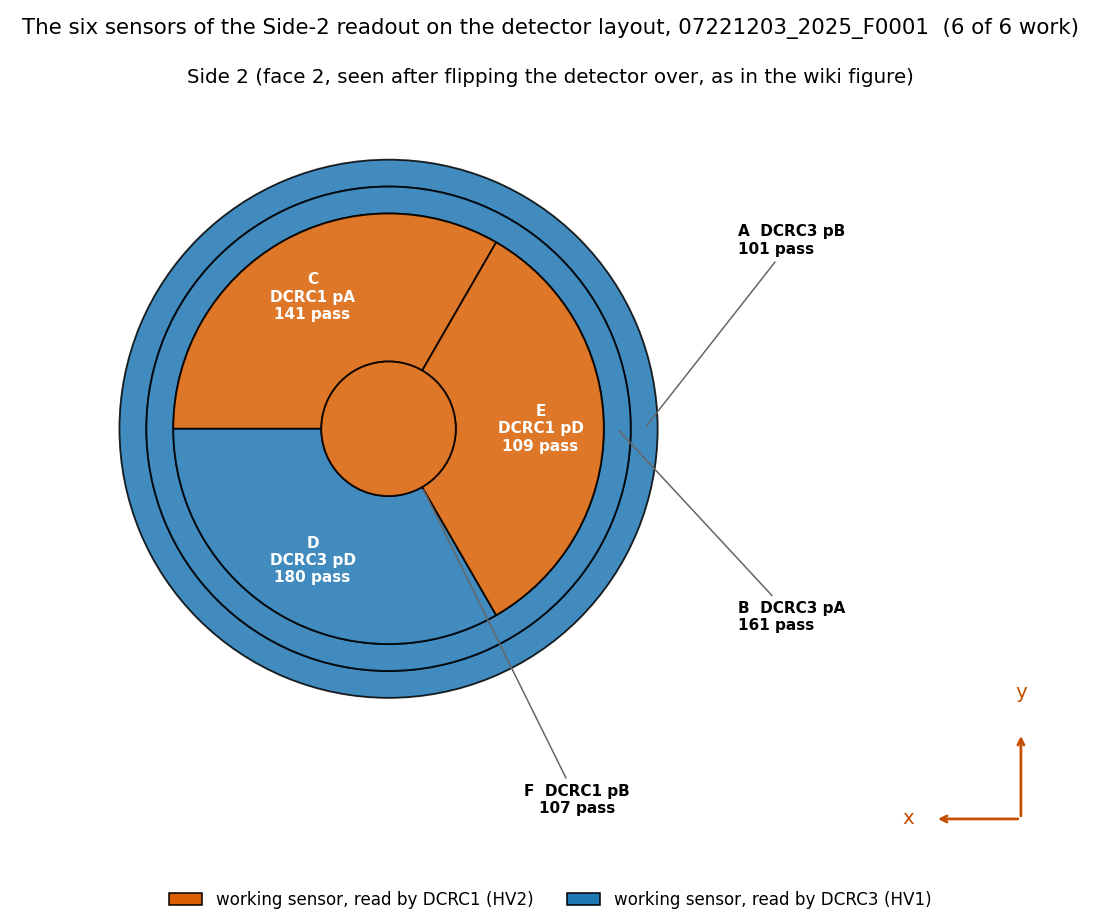
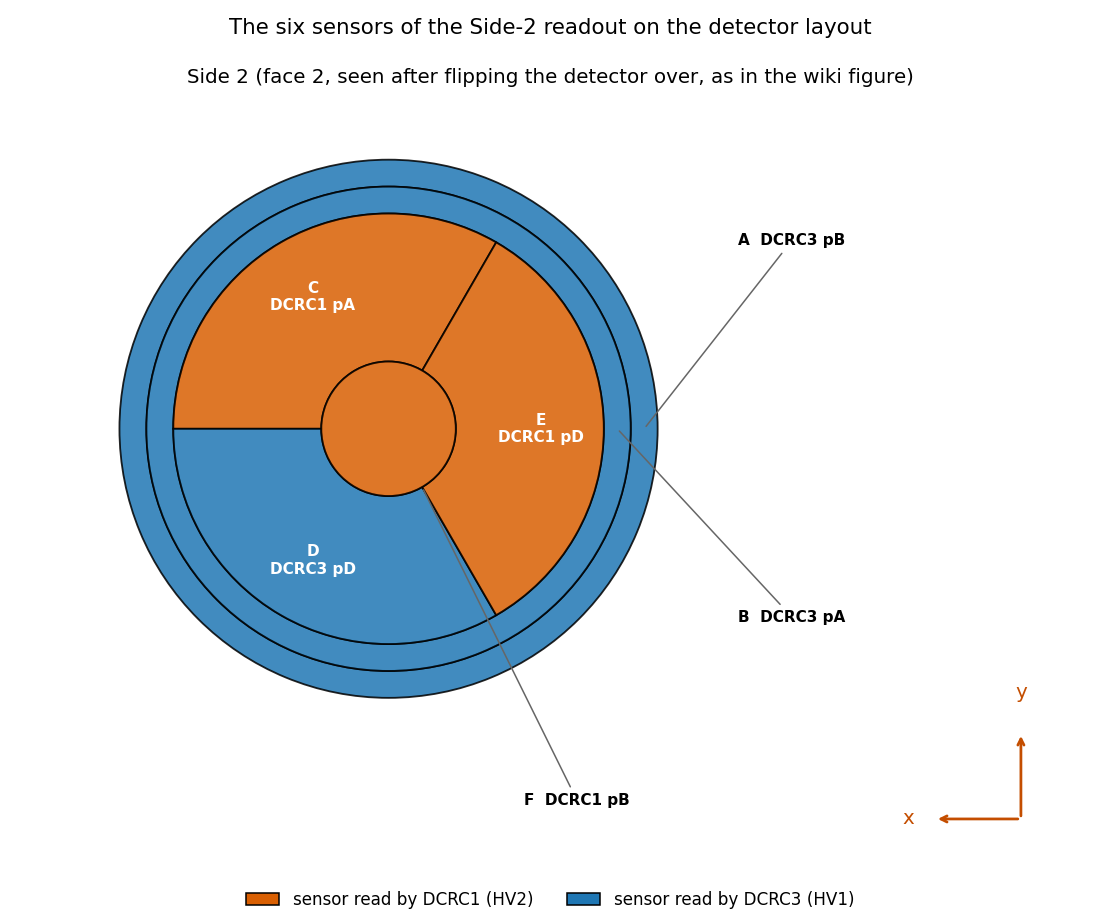
Publish student notes (generated by tools/build_notes.py)

diff --git a/docs/notes/student-psd-clean-randoms-07221203-2025.html b/docs/notes/student-psd-clean-randoms-07221203-2025.html
@@ -33,6 +33,8 @@ Densities</a></li>
 the strictest cut (every working channel)</a></li>
   <li><a href="#appendix-b-the-cut-on-pcs2-and-the-cut-on-pas2">Appendix B: the
 cut on PCS2 and the cut on PAS2</a></li>
+  <li><a href="#appendix-c-both-faces-of-the-detector">Appendix C: both faces of
+the detector</a></li>
 </ol>
 </nav>
 
@@ -75,7 +77,7 @@ counts (the cuts, the 101 and 141 events (the strictest cut’s 31 is now
 other than 4 and 6 (they are identical pixel for pixel), the sample
 numbers quoted for the events). <!-- numbers-ok --></li>
 <li>The Code repository section is pinned to the commit of the latest
-re-run (<code>21b4669</code> for the notebooks, figures and file,
+re-run (<code>18c4bab</code> for the notebooks, figures and file,
 <code>ade25df</code> for the library). <!-- numbers-ok --></li>
 </ul>
 </div>
@@ -100,11 +102,12 @@ What changed in this note: <!-- numbers-ok --></p>
 1) are as before. Everything keyed by (detector, channel), the cuts, the
 event numbers and counts, is unchanged. <!-- numbers-ok --></li>
 <li><strong>No Side 1.</strong> Figure 1 shows one face with six regions
-instead of two faces with seven working channels; the colours of the
-other figures are by board (blue DCRC3, orange DCRC1), and the by-side
-figures (4, 6) are by board; Figures 3 and 8, and the text about the cut
-“on one channel of each side”, are now about one channel on each board.
-<!-- numbers-ok --></li>
+instead of two faces with seven working channels (it is now a generic
+layout, the counts of randoms are in the table above it; Appendix C,
+new, draws both faces); the colours of the other figures are by board
+(blue DCRC3, orange DCRC1), and the by-side figures (4, 6) are by board;
+Figures 3 and 8, and the text about the cut “on one channel of each
+side”, are now about one channel on each board. <!-- numbers-ok --></li>
 <li><strong>The cut we use is made on PAS2</strong> (the old PBS1), a
 channel of DCRC3. Its 101 events are the same. <!-- numbers-ok --></li>
 <li><strong>PBS2 is gone as a phonon channel.</strong> The caveat about
@@ -131,7 +134,7 @@ board order and the Side-2 readout of the December series are inferred
 </div>
 <h2 id="code-repository">Code repository</h2>
 <p>All code is pinned to two commits: buddy’s notebooks, the saved HDF5
-file and the figures to <code>21b4669</code>, the commit of the re-run
+file and the figures to <code>18c4bab</code>, the commit of the re-run
 with the corrected sample period (0.8 µs) and the channel map of the
 Side-2 readout, and the library in <code>python/</code> to
 <code>ade25df</code>. Each link shows the file as it was when the
@@ -142,25 +145,28 @@ the file may have moved since (see
 today.</p>
 <ul>
 <li><a
-href="https://github.com/villano-lab/NSDF-Data/blob/21b4669/data_analysis/R76/student/buddy/psd-clean-randoms-buddy.ipynb"><code>psd-clean-randoms-buddy.ipynb</code></a>:
+href="https://github.com/villano-lab/NSDF-Data/blob/18c4bab/data_analysis/R76/student/buddy/psd-clean-randoms-buddy.ipynb"><code>psd-clean-randoms-buddy.ipynb</code></a>:
 the spectra of every channel from the <code>clean_randoms</code> cut,
 and the saved HDF5 file <a
-href="https://github.com/villano-lab/NSDF-Data/blob/21b4669/data_analysis/R76/student/buddy/psd-clean-randoms-07221203_2025_F0001.h5"><code>psd-clean-randoms-07221203_2025_F0001.h5</code></a>
+href="https://github.com/villano-lab/NSDF-Data/blob/18c4bab/data_analysis/R76/student/buddy/psd-clean-randoms-07221203_2025_F0001.h5"><code>psd-clean-randoms-07221203_2025_F0001.h5</code></a>
 (Noise Power Spectral Densities).</li>
 <li><a
-href="https://github.com/villano-lab/NSDF-Data/blob/21b4669/data_analysis/R76/student/buddy/chan0-cut-on-all-channels-buddy.ipynb"><code>chan0-cut-on-all-channels-buddy.ipynb</code></a>:
+href="https://github.com/villano-lab/NSDF-Data/blob/18c4bab/data_analysis/R76/student/buddy/chan0-cut-on-all-channels-buddy.ipynb"><code>chan0-cut-on-all-channels-buddy.ipynb</code></a>:
 how good the PCS2 cut (the channel names are explained under Data and
 setup) is on the other channels, and the definition of the cut we use
 (<code>clean_randoms</code>) (Selection of Randoms in All Channels, Data
 and setup for the timing of the randoms, Appendices A and B).</li>
 <li><a
-href="https://github.com/villano-lab/NSDF-Data/blob/21b4669/data_analysis/R76/student/buddy/noise-psd-randoms-buddy.ipynb"><code>noise-psd-randoms-buddy.ipynb</code></a>:
+href="https://github.com/villano-lab/NSDF-Data/blob/18c4bab/data_analysis/R76/student/buddy/detector-faces-buddy.ipynb"><code>detector-faces-buddy.ipynb</code></a>:
+the drawing of both faces of the detector (Appendix C).</li>
+<li><a
+href="https://github.com/villano-lab/NSDF-Data/blob/18c4bab/data_analysis/R76/student/buddy/noise-psd-randoms-buddy.ipynb"><code>noise-psd-randoms-buddy.ipynb</code></a>:
 the channel map and the noise spectra of the 34 events of the strictest
 cut (Data and setup, Appendix A).</li>
 <li><a
-href="https://github.com/villano-lab/NSDF-Data/blob/21b4669/data_analysis/R76/student/buddy/extract_odb_facts.py"><code>extract_odb_facts.py</code></a>
+href="https://github.com/villano-lab/NSDF-Data/blob/18c4bab/data_analysis/R76/student/buddy/extract_odb_facts.py"><code>extract_odb_facts.py</code></a>
 and <a
-href="https://github.com/villano-lab/NSDF-Data/blob/21b4669/data_analysis/R76/student/buddy/odb-facts-07220916_2200.json"><code>odb-facts-07220916_2200.json</code></a>:
+href="https://github.com/villano-lab/NSDF-Data/blob/18c4bab/data_analysis/R76/student/buddy/odb-facts-07220916_2200.json"><code>odb-facts-07220916_2200.json</code></a>:
 the run configuration of series <code>07220916_2200</code> (board order,
 QET biases, random rates) read from its raw file, which is not in the
 repository, and the numbers it gave; section 12 of
@@ -182,7 +188,7 @@ and the PSD.</li>
 49 seconds); random triggers are snapshots of our detector traces taken
 at any time (rather than when a pulse occurs) to sample the noise
 environment. The line in the third code block of the <a
-href="https://github.com/villano-lab/NSDF-Data/blob/21b4669/data_analysis/R76/student/buddy/noise-psd-randoms-buddy.ipynb"><code>noise-psd-randoms-buddy.ipynb</code></a>
+href="https://github.com/villano-lab/NSDF-Data/blob/18c4bab/data_analysis/R76/student/buddy/noise-psd-randoms-buddy.ipynb"><code>noise-psd-randoms-buddy.ipynb</code></a>
 notebook shows the randoms cut defined as
 <code>quiet_noise = pc.excursion_band(pulses, config_500) &amp; (np.log10(bstd_500) &lt; 0.5)</code>
 in addition to selecting the trigger specification for random events.
@@ -266,7 +272,7 @@ input.</li>
 <p>The mapping is kept in <a
 href="https://github.com/villano-lab/NSDF-Data/blob/ade25df/python/pulse_channels.py"><code>python/pulse_channels.py</code></a>,
 marked as under development, and section 7 of <em>that</em> notebook, <a
-href="https://github.com/villano-lab/NSDF-Data/blob/21b4669/data_analysis/R76/student/buddy/noise-psd-randoms-buddy.ipynb"><code>noise-psd-randoms-buddy.ipynb</code></a>,
+href="https://github.com/villano-lab/NSDF-Data/blob/18c4bab/data_analysis/R76/student/buddy/noise-psd-randoms-buddy.ipynb"><code>noise-psd-randoms-buddy.ipynb</code></a>,
 gives the evidence.</p>
 <p><strong>Channel names.</strong> In the text a channel is written as
 P, the letter of its sensor, and its side: PCS2 is the phonon channel C
@@ -276,10 +282,11 @@ the dump numbers it as detector 0, channel 0. The six sensors, all on
 Side 2:</p>
 <table>
 <colgroup>
-<col style="width: 25%" />
-<col style="width: 25%" />
-<col style="width: 25%" />
-<col style="width: 25%" />
+<col style="width: 20%" />
+<col style="width: 20%" />
+<col style="width: 20%" />
+<col style="width: 20%" />
+<col style="width: 20%" />
 </colgroup>
 <thead>
 <tr class="header">
@@ -287,6 +294,8 @@ Side 2:</p>
 <th style="text-align: center;">Library and figures</th>
 <th style="text-align: center;">Dump (detector / channel)</th>
 <th style="text-align: center;">Board and input</th>
+<th style="text-align: center;">Randoms that pass its own quiet-noise
+cut</th>
 </tr>
 </thead>
 <tbody>
@@ -295,36 +304,42 @@ Side 2:</p>
 <td style="text-align: center;"><code>Side2pC</code></td>
 <td style="text-align: center;">0 / 0</td>
 <td style="text-align: center;">DCRC1 pA</td>
+<td style="text-align: center;">141</td>
 </tr>
 <tr class="even">
 <td style="text-align: center;">PFS2</td>
 <td style="text-align: center;"><code>Side2pF</code></td>
 <td style="text-align: center;">0 / 1</td>
 <td style="text-align: center;">DCRC1 pB</td>
+<td style="text-align: center;">107</td>
 </tr>
 <tr class="odd">
 <td style="text-align: center;">PES2</td>
 <td style="text-align: center;"><code>Side2pE</code></td>
 <td style="text-align: center;">0 / 3</td>
 <td style="text-align: center;">DCRC1 pD</td>
+<td style="text-align: center;">109</td>
 </tr>
 <tr class="even">
 <td style="text-align: center;">PBS2</td>
 <td style="text-align: center;"><code>Side2pB</code></td>
 <td style="text-align: center;">1 / 0</td>
 <td style="text-align: center;">DCRC3 pA</td>
+<td style="text-align: center;">161</td>
 </tr>
 <tr class="odd">
 <td style="text-align: center;">PAS2</td>
 <td style="text-align: center;"><code>Side2pA</code></td>
 <td style="text-align: center;">1 / 1</td>
 <td style="text-align: center;">DCRC3 pB</td>
+<td style="text-align: center;">101</td>
 </tr>
 <tr class="even">
 <td style="text-align: center;">PDS2</td>
 <td style="text-align: center;"><code>Side2pD</code></td>
 <td style="text-align: center;">1 / 3</td>
 <td style="text-align: center;">DCRC3 pD</td>
+<td style="text-align: center;">180</td>
 </tr>
 </tbody>
 </table>
@@ -337,8 +352,10 @@ src="img/student-psd-clean-randoms-07221203-2025/channel-status-07221203_2025_F0
 2</strong>, the face that is read out in this series (as seen after
 flipping the detector over). Each region is coloured by its readout
 board, DCRC1 (orange) or DCRC3 (blue), and labelled with its letter, its
-board and input, and the number of randoms that pass its own quiet-noise
-cut. The other six inputs are not on the detector.</p>
+board and input (the number of randoms that pass each sensor’s own
+quiet-noise cut is in the table above). The other six inputs are not on
+the detector. Appendix C draws the whole detector, with the face that is
+not read out.</p>
 <h2 id="the-question">The question</h2>
 <p>Based on this series’ Beginning of Run Randoms (BORR), what is our
 best estimate for the noise environment of the experimental setup? The
@@ -405,7 +422,7 @@ a free vertical scale. Blue is DCRC3, orange is DCRC1, and red would
 mark a trace that contains a pulse. The 6 tiles with grey text are the
 inputs that are not sensors.</p>
 <p>While setting this up in the Jupyter notebook <a
-href="https://github.com/villano-lab/NSDF-Data/blob/21b4669/data_analysis/R76/student/buddy/chan0-cut-on-all-channels-buddy.ipynb"><code>chan0-cut-on-all-channels-buddy.ipynb</code></a>,
+href="https://github.com/villano-lab/NSDF-Data/blob/18c4bab/data_analysis/R76/student/buddy/chan0-cut-on-all-channels-buddy.ipynb"><code>chan0-cut-on-all-channels-buddy.ipynb</code></a>,
 I checked if there were similar traces left in the DCRC1 channels after
 selecting on PAS2 (DCRC3), just like we saw in the DCRC3 channels after
 selecting on PCS2 (DCRC1). <a
@@ -505,7 +522,7 @@ variance, if the trace has zero mean). Here
 dropped, so there are 2044 bins, from 306 Hz (the first non-zero bin) to
 625 kHz; the zero-frequency bin is not plotted. This is the convention
 used in the notebook (<a
-href="https://github.com/villano-lab/NSDF-Data/blob/21b4669/data_analysis/R76/student/buddy/noise-psd-randoms-buddy.ipynb"><code>noise-psd-randoms-buddy.ipynb</code></a>);
+href="https://github.com/villano-lab/NSDF-Data/blob/18c4bab/data_analysis/R76/student/buddy/noise-psd-randoms-buddy.ipynb"><code>noise-psd-randoms-buddy.ipynb</code></a>);
 Note 3 plotted the raw
 <math display="inline" xmlns="http://www.w3.org/1998/Math/MathML"><semantics><msup><mrow><mo stretchy="true" form="prefix">|</mo><mi>X</mi><mrow><mo stretchy="true" form="prefix">[</mo><mi>k</mi><mo stretchy="true" form="postfix">]</mo></mrow><mo stretchy="true" form="postfix">|</mo></mrow><mn>2</mn></msup><annotation encoding="application/x-tex">|X[k]|^2</annotation></semantics></math>
 instead, which differs from
@@ -643,7 +660,7 @@ pretrigger window (<code>pc.excursion_band</code>) and has
 dump F0001 it keeps <strong>101 of the 1008 randoms</strong>, none with
 a pulse or a big tail in any channel (Appendix B). It is defined by the
 function <code>clean_randoms_cut</code> in <a
-href="https://github.com/villano-lab/NSDF-Data/blob/21b4669/data_analysis/R76/student/buddy/chan0-cut-on-all-channels-buddy.ipynb"><code>chan0-cut-on-all-channels-buddy.ipynb</code></a>
+href="https://github.com/villano-lab/NSDF-Data/blob/18c4bab/data_analysis/R76/student/buddy/chan0-cut-on-all-channels-buddy.ipynb"><code>chan0-cut-on-all-channels-buddy.ipynb</code></a>
 (section 13), and the code below is that function.
 <code>clean_randoms</code> is a True/False value for every event of the
 dump; because the three boards share their events in the same order, the
@@ -688,8 +705,8 @@ development, because it assumes the trigger labels are swapped (Note
 <p>I’ve made the current best estimate of the noise spectrum
 specifically focusing on the series <code>07221203_2025</code>. The
 spectra are accessible via <a
-href="https://github.com/villano-lab/NSDF-Data/blob/21b4669/data_analysis/R76/student/buddy/psd-clean-randoms-07221203_2025_F0001.h5"><code>psd-clean-randoms-07221203_2025_F0001.h5</code></a>
-file (pinned to <code>21b4669</code>, 435 kB), and can be accessed
+href="https://github.com/villano-lab/NSDF-Data/blob/18c4bab/data_analysis/R76/student/buddy/psd-clean-randoms-07221203_2025_F0001.h5"><code>psd-clean-randoms-07221203_2025_F0001.h5</code></a>
+file (pinned to <code>18c4bab</code>, 435 kB), and can be accessed
 by:</p>
 <pre class="python"><code>import h5py
 import numpy as np
@@ -717,7 +734,7 @@ counts/√Hz) and its standard error (<code>asd_sem</code>), and the PSD
 it is the square root of (<code>psd_mean</code> and
 <code>psd_sem</code>, in counts²/Hz); the layout of the file is
 described in section 7 of <a
-href="https://github.com/villano-lab/NSDF-Data/blob/21b4669/data_analysis/R76/student/buddy/psd-clean-randoms-buddy.ipynb"><code>psd-clean-randoms-buddy.ipynb</code></a>,
+href="https://github.com/villano-lab/NSDF-Data/blob/18c4bab/data_analysis/R76/student/buddy/psd-clean-randoms-buddy.ipynb"><code>psd-clean-randoms-buddy.ipynb</code></a>,
 which also makes them. The caveats above apply.</p>
 <h2 id="next-steps">Next steps</h2>
 <p><strong>Next steps.</strong> There are two possibilities:</p>
@@ -757,11 +774,11 @@ fall in the band on each of the six channels, while the
 <code>log10(bstd) &lt; 0.5</code> condition keeps 770 to 895.</p>
 <p>Figure 5 shows the 34 traces themselves in every channel (section 12
 of <a
-href="https://github.com/villano-lab/NSDF-Data/blob/21b4669/data_analysis/R76/student/buddy/chan0-cut-on-all-channels-buddy.ipynb"><code>chan0-cut-on-all-channels-buddy.ipynb</code></a>):
+href="https://github.com/villano-lab/NSDF-Data/blob/18c4bab/data_analysis/R76/student/buddy/chan0-cut-on-all-channels-buddy.ipynb"><code>chan0-cut-on-all-channels-buddy.ipynb</code></a>):
 none of them has a pulse or a ramp, and they all look like noise, but
 there are only 34 of them. Figure 6 shows their noise amplitude spectral
 density, the mean of the 34 traces in each channel (section 11 of <a
-href="https://github.com/villano-lab/NSDF-Data/blob/21b4669/data_analysis/R76/student/buddy/noise-psd-randoms-buddy.ipynb"><code>noise-psd-randoms-buddy.ipynb</code></a>).
+href="https://github.com/villano-lab/NSDF-Data/blob/18c4bab/data_analysis/R76/student/buddy/noise-psd-randoms-buddy.ipynb"><code>noise-psd-randoms-buddy.ipynb</code></a>).
 With so few traces the spectra are jagged from bin to bin, and no spread
 between the traces is drawn. This is why a cut that is not required to
 hold on all channels, and so keeps more traces, is worth looking
@@ -832,6 +849,30 @@ tile per channel, with the traces drawn over each other with
 transparency, baseline-subtracted. Blue is DCRC3 and orange is DCRC1; no
 trace contains a pulse. The 6 tiles with grey text are the inputs that
 are not sensors.</p>
+<h2 id="appendix-c-both-faces-of-the-detector">Appendix C: both faces of
+the detector</h2>
+<p>The detector has two faces with the same six phonon sensors each (A
+the outer ring, B the second ring, C, D and E the three sectors of the
+middle region, F the centre disc). In the Side-2 readout of this series
+only the sensors of Side 2 are connected to a readout board, so Figure 1
+shows one face. Figure 9 draws both: Side 2 as in Figure 1, and Side 1,
+which is not read out, greyed out and labelled with the board input each
+of its sensors would use in the Side-1 readout of the same Setup table.
+The drawing is made by <a
+href="https://github.com/villano-lab/NSDF-Data/blob/18c4bab/data_analysis/R76/student/buddy/detector-faces-buddy.ipynb"><code>detector-faces-buddy.ipynb</code></a>
+from <code>python/pulse_channels.py</code>
+(<code>sensor_channels(readout=2)</code> and
+<code>sensor_channels(readout=1)</code>).</p>
+<p><img
+src="img/student-psd-clean-randoms-07221203-2025/detector-faces-07221203_2025_F0001.png" /></p>
+<p><strong>Figure 9: Both faces of the detector S104 and the six sensors
+read in the Side-2 readout.</strong> Left: Side 1 (face 1), not read out
+in this series (hatched; the board inputs in grey are those of the
+Side-1 readout, which this series does not use). Right: Side 2 (face 2,
+seen after flipping the detector over, as in the wiki figure), with each
+sensor coloured by its readout board, DCRC1 (orange, HV2) or DCRC3
+(blue, HV1), and labelled with its letter, board and input, as in Figure
+1.</p>
 
 
 <footer><a href="../index.html">&larr; All notes</a> &middot; <a href="https://github.com/villano-lab/NSDF-Data">NSDF-Data on GitHub</a></footer>
